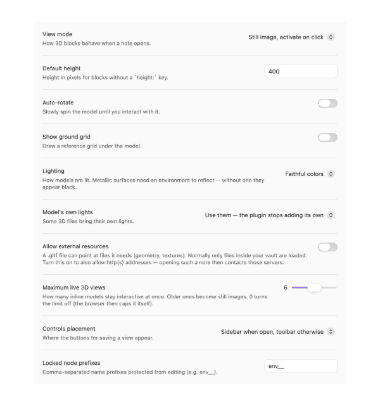
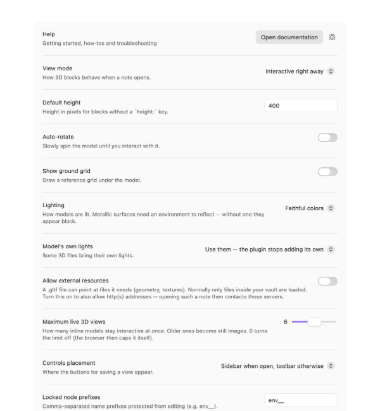
docs(images): settings.png mit Hilfe-Zeile neu aufgenommen, Rezept setzt viewMode zurueck

diff --git a/scripts/shots.ts b/scripts/shots.ts
@@ -593,6 +593,8 @@ async function settingsBild(cdp: Cdp, port: number, opts: ShotOptions): Promise<
   // "toolbar". Das Einstellungsbild zeigte sonst einen Wert, den der Treiber selbst
   // gesetzt hat — eine Doku-Aufnahme, die den eigenen Eingriff dokumentiert.
   await setPluginSetting(cdp, PLUGIN_ID, "panelPlacement", "auto");
+  // Ebenso viewMode: das Klick-Rezept stellt ihn auf "on-click" und liess ihn stehen.
+  await setPluginSetting(cdp, PLUGIN_ID, "viewMode", "immediate");
   await cdp.evaluate(`
     app.setting.open();
     app.setting.openTabById(${JSON.stringify(PLUGIN_ID)});
